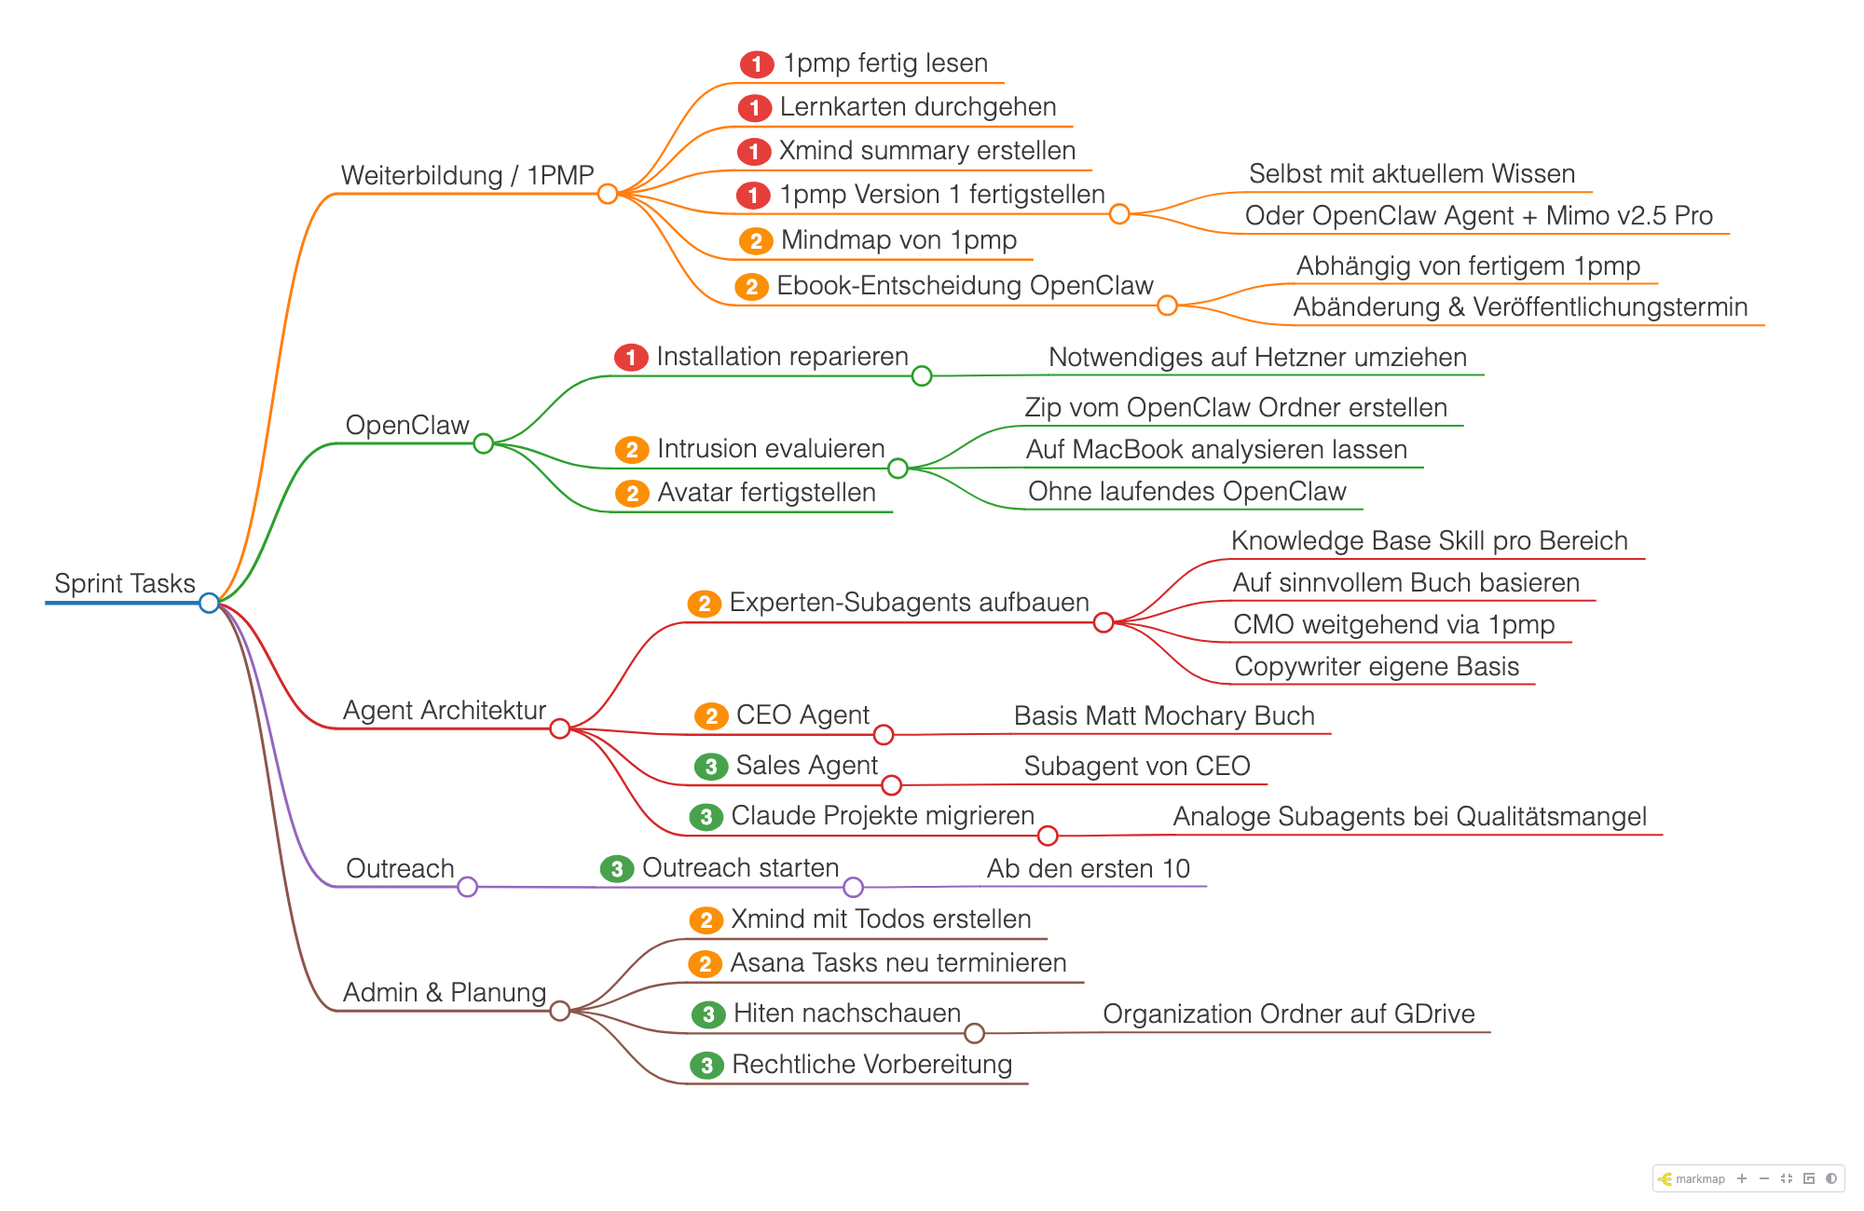
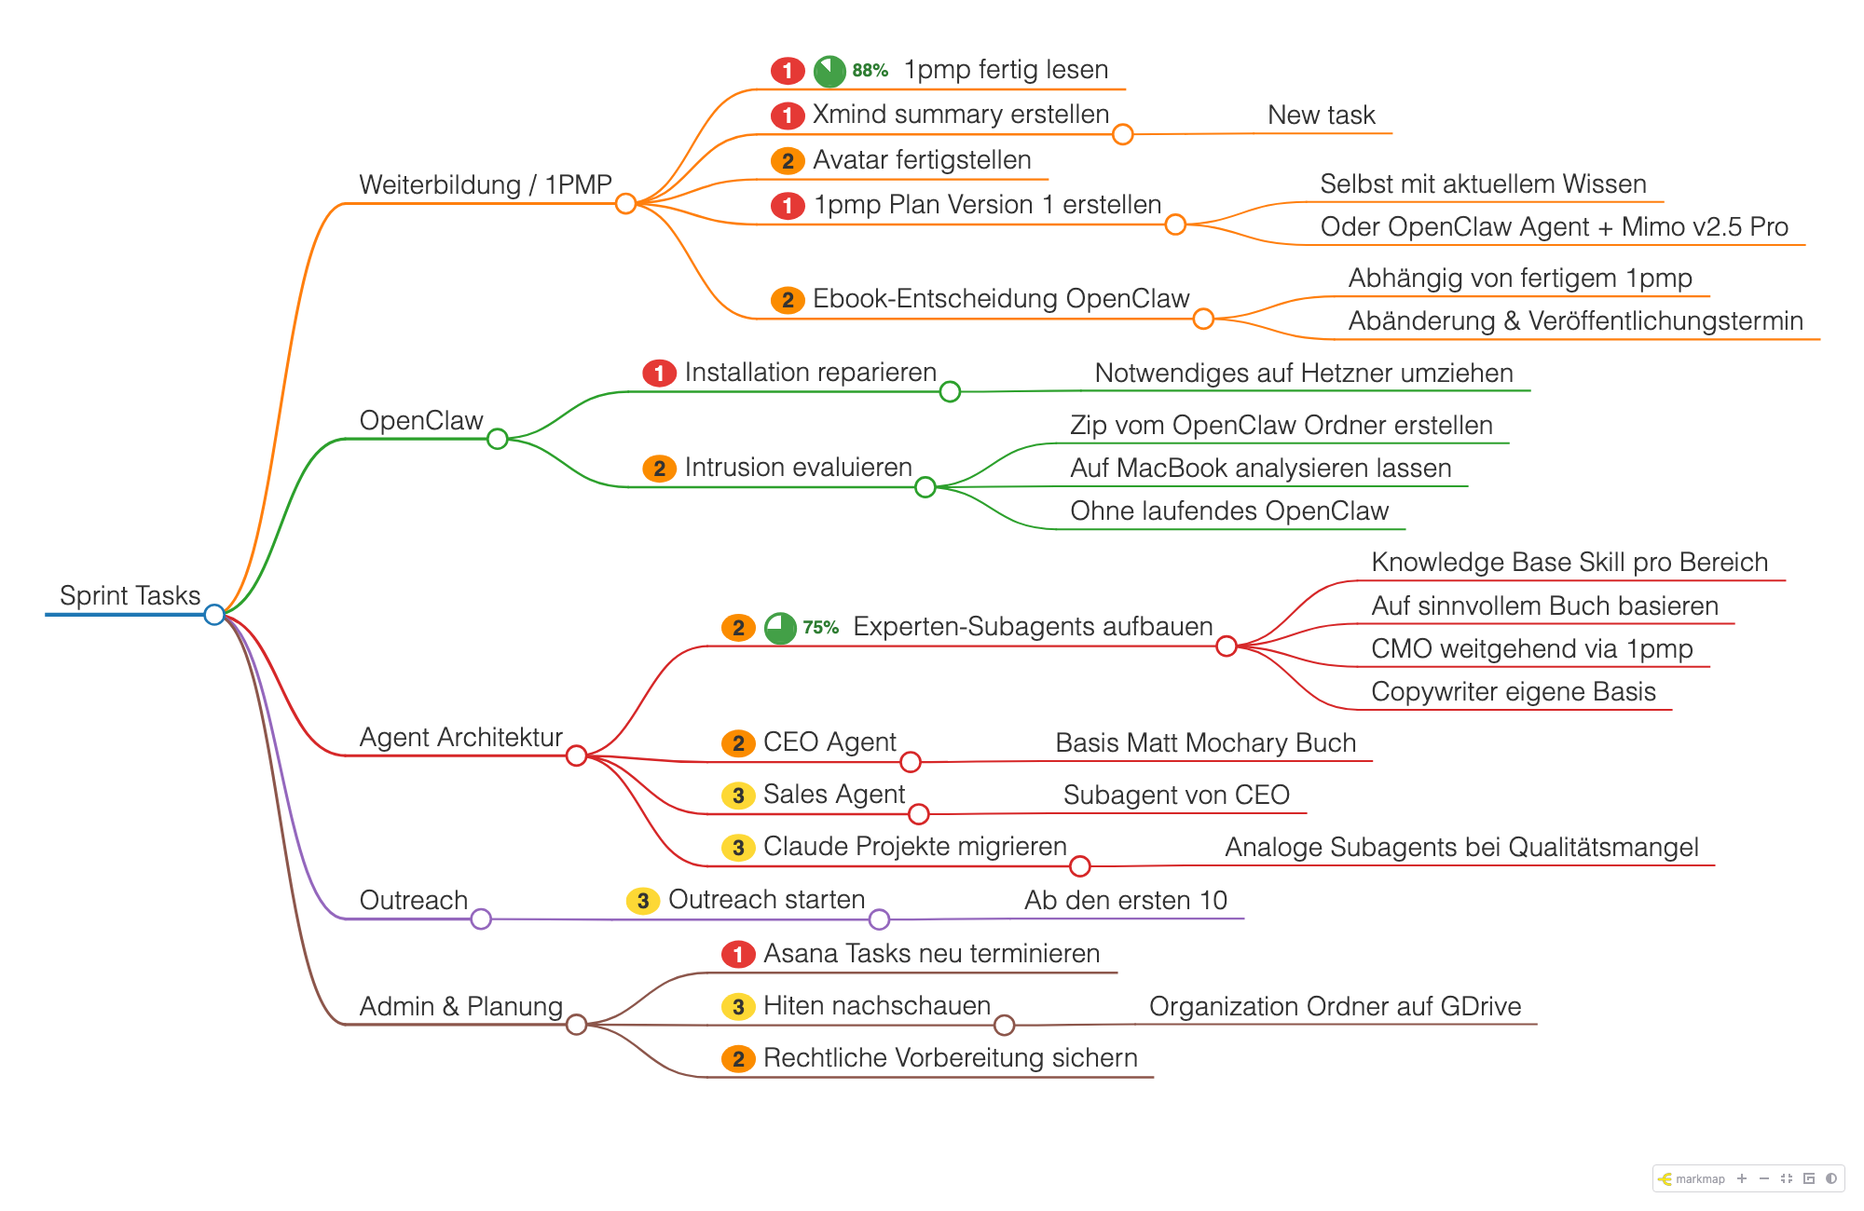
Fix markmap render pipeline and editor marker issues
- render-markmap.sh: fix doubled file:// path that broke the PNG when the
  editor server passes an absolute markdown path; wait for markmap's fit()
  via --virtual-time-budget so the screenshot is no longer blank/squeezed
- editor: cap and wrap the inline edit box so long text no longer overflows
  onto node connections
- markers: append a readable task-progress label (Start/…/Done) so progress
  is legible in markmap and matches the editor; round-trip preserved
- cleanup: dedupe .gitignore, untrack-fix the PNG, remove duplicate
  service-worker entry (cache v4), drop orphan sprint-tasks-mindmapai.md
- regenerate sprint-tasks.md/.html/.png through the fixed pipeline

Changed region(s): [[0.031, 0.0308, 0.961, 0.8923]]

diff --git a/sprint-tasks.html b/sprint-tasks.html
@@ -47,6 +47,6 @@ html {
               if (window.matchMedia("(prefers-color-scheme: dark)").matches) {
                 document.documentElement.classList.add("markmap-dark");
               }
-            })(() => window.markmap,null,{"content":"Sprint Tasks","children":[{"content":"Weiterbildung / 1PMP","children":[{"content":"<span style=\"background:#e53935;color:#ffffff;border-radius:50%;padding:1px 7px;font-weight:700;font-size:13px\">1</span> 1pmp fertig lesen","children":[],"payload":{"tag":"h3","lines":"10,11"}},{"content":"<span style=\"background:#e53935;color:#ffffff;border-radius:50%;padding:1px 7px;font-weight:700;font-size:13px\">1</span> Xmind summary erstellen","children":[],"payload":{"tag":"h3","lines":"11,12"}},{"content":"<span style=\"background:#fb8c00;color:#333333;border-radius:50%;padding:1px 7px;font-weight:700;font-size:13px\">2</span> Avatar fertigstellen","children":[],"payload":{"tag":"h3","lines":"12,13"}},{"content":"<span style=\"background:#e53935;color:#ffffff;border-radius:50%;padding:1px 7px;font-weight:700;font-size:13px\">1</span> 1pmp Version 1 fertigstellen","children":[{"content":"Selbst mit aktuellem Wissen","children":[],"payload":{"tag":"li","lines":"14,15"}},{"content":"Oder OpenClaw Agent + Mimo v2.5 Pro","children":[],"payload":{"tag":"li","lines":"15,16"}}],"payload":{"tag":"h3","lines":"13,14"}},{"content":"<span style=\"background:#fb8c00;color:#333333;border-radius:50%;padding:1px 7px;font-weight:700;font-size:13px\">2</span> Ebook-Entscheidung OpenClaw","children":[{"content":"Abh&#xe4;ngig von fertigem 1pmp","children":[],"payload":{"tag":"li","lines":"17,18"}},{"content":"Ab&#xe4;nderung &amp; Ver&#xf6;ffentlichungstermin","children":[],"payload":{"tag":"li","lines":"18,20"}}],"payload":{"tag":"h3","lines":"16,17"}}],"payload":{"tag":"h2","lines":"9,10"}},{"content":"OpenClaw","children":[{"content":"<span style=\"background:#e53935;color:#ffffff;border-radius:50%;padding:1px 7px;font-weight:700;font-size:13px\">1</span> Installation reparieren","children":[{"content":"Notwendiges auf Hetzner umziehen","children":[],"payload":{"tag":"li","lines":"22,23"}}],"payload":{"tag":"h3","lines":"21,22"}},{"content":"<span style=\"background:#fb8c00;color:#333333;border-radius:50%;padding:1px 7px;font-weight:700;font-size:13px\">2</span> Intrusion evaluieren","children":[{"content":"Zip vom OpenClaw Ordner erstellen","children":[],"payload":{"tag":"li","lines":"24,25"}},{"content":"Auf MacBook analysieren lassen","children":[],"payload":{"tag":"li","lines":"25,26"}},{"content":"Ohne laufendes OpenClaw","children":[],"payload":{"tag":"li","lines":"26,28"}}],"payload":{"tag":"h3","lines":"23,24"}}],"payload":{"tag":"h2","lines":"20,21"}},{"content":"Agent Architektur","children":[{"content":"<span style=\"background:#fb8c00;color:#333333;border-radius:50%;padding:1px 7px;font-weight:700;font-size:13px\">2</span> Experten-Subagents aufbauen","children":[{"content":"Knowledge Base Skill pro Bereich","children":[],"payload":{"tag":"li","lines":"30,31"}},{"content":"Auf sinnvollem Buch basieren","children":[],"payload":{"tag":"li","lines":"31,32"}},{"content":"CMO weitgehend via 1pmp","children":[],"payload":{"tag":"li","lines":"32,33"}},{"content":"Copywriter eigene Basis","children":[],"payload":{"tag":"li","lines":"33,34"}}],"payload":{"tag":"h3","lines":"29,30"}},{"content":"<span style=\"background:#fb8c00;color:#333333;border-radius:50%;padding:1px 7px;font-weight:700;font-size:13px\">2</span> CEO Agent","children":[{"content":"Basis Matt Mochary Buch","children":[],"payload":{"tag":"li","lines":"35,36"}}],"payload":{"tag":"h3","lines":"34,35"}},{"content":"<span style=\"background:#fdd835;color:#333333;border-radius:50%;padding:1px 7px;font-weight:700;font-size:13px\">3</span> Sales Agent","children":[{"content":"Subagent von CEO","children":[],"payload":{"tag":"li","lines":"37,38"}}],"payload":{"tag":"h3","lines":"36,37"}},{"content":"<span style=\"background:#fdd835;color:#333333;border-radius:50%;padding:1px 7px;font-weight:700;font-size:13px\">3</span> Claude Projekte migrieren","children":[{"content":"Analoge Subagents bei Qualit&#xe4;tsmangel","children":[],"payload":{"tag":"li","lines":"39,41"}}],"payload":{"tag":"h3","lines":"38,39"}}],"payload":{"tag":"h2","lines":"28,29"}},{"content":"Outreach","children":[{"content":"<span style=\"background:#fdd835;color:#333333;border-radius:50%;padding:1px 7px;font-weight:700;font-size:13px\">3</span> Outreach starten","children":[{"content":"Ab den ersten 10","children":[],"payload":{"tag":"li","lines":"43,45"}}],"payload":{"tag":"h3","lines":"42,43"}}],"payload":{"tag":"h2","lines":"41,42"}},{"content":"Admin &amp; Planung","children":[{"content":"<span style=\"background:#e53935;color:#ffffff;border-radius:50%;padding:1px 7px;font-weight:700;font-size:13px\">1</span> Asana Tasks neu terminieren","children":[],"payload":{"tag":"h3","lines":"46,47"}},{"content":"<span style=\"background:#fdd835;color:#333333;border-radius:50%;padding:1px 7px;font-weight:700;font-size:13px\">3</span> Hiten nachschauen","children":[{"content":"Organization Ordner auf GDrive","children":[],"payload":{"tag":"li","lines":"48,49"}}],"payload":{"tag":"h3","lines":"47,48"}},{"content":"<span style=\"background:#fb8c00;color:#333333;border-radius:50%;padding:1px 7px;font-weight:700;font-size:13px\">2</span> Rechtliche Vorbereitung sichern","children":[],"payload":{"tag":"h3","lines":"49,50"}}],"payload":{"tag":"h2","lines":"45,46"}}],"payload":{"tag":"h1","lines":"7,8"}},{"colorFreezeLevel":2,"initialExpandLevel":4,"maxWidth":340})</script>
+            })(() => window.markmap,null,{"content":"Sprint Tasks","children":[{"content":"Weiterbildung / 1PMP","children":[{"content":"<span data-m=\"priority\" data-v=\"1\" style=\"background:#e53935;color:#ffffff;border-radius:50%;padding:1px 7px;font-weight:700;font-size:13px\">1</span> <span data-m=\"task\" data-v=\"5\" style=\"display:inline-block;width:16px;height:16px;border:2px solid #43a047;border-radius:50%;vertical-align:middle;margin-right:4px;background:conic-gradient(#43a047 0deg 315deg, transparent 315deg);\"></span><span data-task-label=\"5\" style=\"font-size:11px;font-weight:600;color:#2e7d32;vertical-align:middle;margin-right:4px\">88%</span> 1pmp fertig lesen","children":[],"payload":{"tag":"h3","lines":"10,11"}},{"content":"<span data-m=\"priority\" data-v=\"1\" style=\"background:#e53935;color:#ffffff;border-radius:50%;padding:1px 7px;font-weight:700;font-size:13px\">1</span> Xmind summary erstellen","children":[{"content":"New task","children":[],"payload":{"tag":"li","lines":"12,13"}}],"payload":{"tag":"h3","lines":"11,12"}},{"content":"<span data-m=\"priority\" data-v=\"2\" style=\"background:#fb8c00;color:#333333;border-radius:50%;padding:1px 7px;font-weight:700;font-size:13px\">2</span> Avatar fertigstellen","children":[],"payload":{"tag":"h3","lines":"13,14"}},{"content":"<span data-m=\"priority\" data-v=\"1\" style=\"background:#e53935;color:#ffffff;border-radius:50%;padding:1px 7px;font-weight:700;font-size:13px\">1</span> 1pmp Plan Version 1 erstellen","children":[{"content":"Selbst mit aktuellem Wissen","children":[],"payload":{"tag":"li","lines":"15,16"}},{"content":"Oder OpenClaw Agent + Mimo v2.5 Pro","children":[],"payload":{"tag":"li","lines":"16,17"}}],"payload":{"tag":"h3","lines":"14,15"}},{"content":"<span data-m=\"priority\" data-v=\"2\" style=\"background:#fb8c00;color:#333333;border-radius:50%;padding:1px 7px;font-weight:700;font-size:13px\">2</span> Ebook-Entscheidung OpenClaw","children":[{"content":"Abh&#xe4;ngig von fertigem 1pmp","children":[],"payload":{"tag":"li","lines":"18,19"}},{"content":"Ab&#xe4;nderung &amp; Ver&#xf6;ffentlichungstermin","children":[],"payload":{"tag":"li","lines":"19,21"}}],"payload":{"tag":"h3","lines":"17,18"}}],"payload":{"tag":"h2","lines":"9,10"}},{"content":"OpenClaw","children":[{"content":"<span data-m=\"priority\" data-v=\"1\" style=\"background:#e53935;color:#ffffff;border-radius:50%;padding:1px 7px;font-weight:700;font-size:13px\">1</span> Installation reparieren","children":[{"content":"Notwendiges auf Hetzner umziehen","children":[],"payload":{"tag":"li","lines":"23,24"}}],"payload":{"tag":"h3","lines":"22,23"}},{"content":"<span data-m=\"priority\" data-v=\"2\" style=\"background:#fb8c00;color:#333333;border-radius:50%;padding:1px 7px;font-weight:700;font-size:13px\">2</span> Intrusion evaluieren","children":[{"content":"Zip vom OpenClaw Ordner erstellen","children":[],"payload":{"tag":"li","lines":"25,26"}},{"content":"Auf MacBook analysieren lassen","children":[],"payload":{"tag":"li","lines":"26,27"}},{"content":"Ohne laufendes OpenClaw","children":[],"payload":{"tag":"li","lines":"27,29"}}],"payload":{"tag":"h3","lines":"24,25"}}],"payload":{"tag":"h2","lines":"21,22"}},{"content":"Agent Architektur","children":[{"content":"<span data-m=\"priority\" data-v=\"2\" style=\"background:#fb8c00;color:#333333;border-radius:50%;padding:1px 7px;font-weight:700;font-size:13px\">2</span> <span data-m=\"task\" data-v=\"4\" style=\"display:inline-block;width:16px;height:16px;border:2px solid #43a047;border-radius:50%;vertical-align:middle;margin-right:4px;background:conic-gradient(#43a047 0deg 270deg, transparent 270deg);\"></span><span data-task-label=\"4\" style=\"font-size:11px;font-weight:600;color:#2e7d32;vertical-align:middle;margin-right:4px\">75%</span> Experten-Subagents aufbauen","children":[{"content":"Knowledge Base Skill pro Bereich","children":[],"payload":{"tag":"li","lines":"31,32"}},{"content":"Auf sinnvollem Buch basieren","children":[],"payload":{"tag":"li","lines":"32,33"}},{"content":"CMO weitgehend via 1pmp","children":[],"payload":{"tag":"li","lines":"33,34"}},{"content":"Copywriter eigene Basis","children":[],"payload":{"tag":"li","lines":"34,35"}}],"payload":{"tag":"h3","lines":"30,31"}},{"content":"<span data-m=\"priority\" data-v=\"2\" style=\"background:#fb8c00;color:#333333;border-radius:50%;padding:1px 7px;font-weight:700;font-size:13px\">2</span> CEO Agent","children":[{"content":"Basis Matt Mochary Buch","children":[],"payload":{"tag":"li","lines":"36,37"}}],"payload":{"tag":"h3","lines":"35,36"}},{"content":"<span data-m=\"priority\" data-v=\"3\" style=\"background:#fdd835;color:#333333;border-radius:50%;padding:1px 7px;font-weight:700;font-size:13px\">3</span> Sales Agent","children":[{"content":"Subagent von CEO","children":[],"payload":{"tag":"li","lines":"38,39"}}],"payload":{"tag":"h3","lines":"37,38"}},{"content":"<span data-m=\"priority\" data-v=\"3\" style=\"background:#fdd835;color:#333333;border-radius:50%;padding:1px 7px;font-weight:700;font-size:13px\">3</span> Claude Projekte migrieren","children":[{"content":"Analoge Subagents bei Qualit&#xe4;tsmangel","children":[],"payload":{"tag":"li","lines":"40,42"}}],"payload":{"tag":"h3","lines":"39,40"}}],"payload":{"tag":"h2","lines":"29,30"}},{"content":"Outreach","children":[{"content":"<span data-m=\"priority\" data-v=\"3\" style=\"background:#fdd835;color:#333333;border-radius:50%;padding:1px 7px;font-weight:700;font-size:13px\">3</span> Outreach starten","children":[{"content":"Ab den ersten 10","children":[],"payload":{"tag":"li","lines":"44,46"}}],"payload":{"tag":"h3","lines":"43,44"}}],"payload":{"tag":"h2","lines":"42,43"}},{"content":"Admin &amp; Planung","children":[{"content":"<span data-m=\"priority\" data-v=\"1\" style=\"background:#e53935;color:#ffffff;border-radius:50%;padding:1px 7px;font-weight:700;font-size:13px\">1</span> Asana Tasks neu terminieren","children":[],"payload":{"tag":"h3","lines":"47,48"}},{"content":"<span data-m=\"priority\" data-v=\"3\" style=\"background:#fdd835;color:#333333;border-radius:50%;padding:1px 7px;font-weight:700;font-size:13px\">3</span> Hiten nachschauen","children":[{"content":"Organization Ordner auf GDrive","children":[],"payload":{"tag":"li","lines":"49,50"}}],"payload":{"tag":"h3","lines":"48,49"}},{"content":"<span data-m=\"priority\" data-v=\"2\" style=\"background:#fb8c00;color:#333333;border-radius:50%;padding:1px 7px;font-weight:700;font-size:13px\">2</span> Rechtliche Vorbereitung sichern","children":[],"payload":{"tag":"h3","lines":"50,51"}}],"payload":{"tag":"h2","lines":"46,47"}}],"payload":{"tag":"h1","lines":"7,8"}},{"colorFreezeLevel":2,"initialExpandLevel":4,"maxWidth":340})</script>
 </body>
 </html>

diff --git a/editor/style.css b/editor/style.css
@@ -178,6 +178,16 @@ body {
   background: #fff;
 }
 
+/* Mind Elixir's inline edit box (contenteditable) only sets a min-width, so long
+   text grows on a single line and overlaps sibling nodes and the link curves.
+   Cap its width and let it wrap instead. */
+#map #input-box {
+  max-width: 340px;
+  white-space: pre-wrap;
+  overflow-wrap: anywhere;
+  word-break: break-word;
+}
+
 .pri-badge,
 .marker-pri,
 .marker-icon {
@@ -216,6 +226,14 @@ body {
   vertical-align: middle;
   flex-shrink: 0;
   box-sizing: border-box;
+}
+
+.node-markers .marker-task-label {
+  font-size: 11px;
+  font-weight: 600;
+  color: #2e7d32;
+  margin-right: 2px;
+  vertical-align: middle;
 }
 
 .node-markers .marker-task.task-6 {

diff --git a/editor/service-worker.js b/editor/service-worker.js
@@ -1,4 +1,4 @@
-const CACHE = 'sprint-mindmap-editor-v3';
+const CACHE = 'sprint-mindmap-editor-v4';
 
 const SHELL = [
   '/',
@@ -8,7 +8,6 @@ const SHELL = [
   '/markmap-convert.mjs',
   '/markers.mjs',
   '/marker-picker.mjs',
-  '/priority-hotkeys.mjs',
   '/priority-hotkeys.mjs',
   '/manifest.webmanifest',
   '/vendor/MindElixir.js',

diff --git a/sprint-tasks.md b/sprint-tasks.md
@@ -8,43 +8,44 @@ markmap:
 # Sprint Tasks
 
 ## Weiterbildung / 1PMP
-### <span style="background:#e53935;color:#ffffff;border-radius:50%;padding:1px 7px;font-weight:700;font-size:13px">1</span> 1pmp fertig lesen
-### <span style="background:#e53935;color:#ffffff;border-radius:50%;padding:1px 7px;font-weight:700;font-size:13px">1</span> Xmind summary erstellen
-### <span style="background:#fb8c00;color:#333333;border-radius:50%;padding:1px 7px;font-weight:700;font-size:13px">2</span> Avatar fertigstellen
-### <span style="background:#e53935;color:#ffffff;border-radius:50%;padding:1px 7px;font-weight:700;font-size:13px">1</span> 1pmp Version 1 fertigstellen
+### <span data-m="priority" data-v="1" style="background:#e53935;color:#ffffff;border-radius:50%;padding:1px 7px;font-weight:700;font-size:13px">1</span> <span data-m="task" data-v="5" style="display:inline-block;width:16px;height:16px;border:2px solid #43a047;border-radius:50%;vertical-align:middle;margin-right:4px;background:conic-gradient(#43a047 0deg 315deg, transparent 315deg);"></span><span data-task-label="5" style="font-size:11px;font-weight:600;color:#2e7d32;vertical-align:middle;margin-right:4px">88%</span> 1pmp fertig lesen
+### <span data-m="priority" data-v="1" style="background:#e53935;color:#ffffff;border-radius:50%;padding:1px 7px;font-weight:700;font-size:13px">1</span> Xmind summary erstellen
+- New task
+### <span data-m="priority" data-v="2" style="background:#fb8c00;color:#333333;border-radius:50%;padding:1px 7px;font-weight:700;font-size:13px">2</span> Avatar fertigstellen
+### <span data-m="priority" data-v="1" style="background:#e53935;color:#ffffff;border-radius:50%;padding:1px 7px;font-weight:700;font-size:13px">1</span> 1pmp Plan Version 1 erstellen
 - Selbst mit aktuellem Wissen
 - Oder OpenClaw Agent + Mimo v2.5 Pro
-### <span style="background:#fb8c00;color:#333333;border-radius:50%;padding:1px 7px;font-weight:700;font-size:13px">2</span> Ebook-Entscheidung OpenClaw
+### <span data-m="priority" data-v="2" style="background:#fb8c00;color:#333333;border-radius:50%;padding:1px 7px;font-weight:700;font-size:13px">2</span> Ebook-Entscheidung OpenClaw
 - Abhängig von fertigem 1pmp
 - Abänderung & Veröffentlichungstermin
 
 ## OpenClaw
-### <span style="background:#e53935;color:#ffffff;border-radius:50%;padding:1px 7px;font-weight:700;font-size:13px">1</span> Installation reparieren
+### <span data-m="priority" data-v="1" style="background:#e53935;color:#ffffff;border-radius:50%;padding:1px 7px;font-weight:700;font-size:13px">1</span> Installation reparieren
 - Notwendiges auf Hetzner umziehen
-### <span style="background:#fb8c00;color:#333333;border-radius:50%;padding:1px 7px;font-weight:700;font-size:13px">2</span> Intrusion evaluieren
+### <span data-m="priority" data-v="2" style="background:#fb8c00;color:#333333;border-radius:50%;padding:1px 7px;font-weight:700;font-size:13px">2</span> Intrusion evaluieren
 - Zip vom OpenClaw Ordner erstellen
 - Auf MacBook analysieren lassen
 - Ohne laufendes OpenClaw
 
 ## Agent Architektur
-### <span style="background:#fb8c00;color:#333333;border-radius:50%;padding:1px 7px;font-weight:700;font-size:13px">2</span> Experten-Subagents aufbauen
+### <span data-m="priority" data-v="2" style="background:#fb8c00;color:#333333;border-radius:50%;padding:1px 7px;font-weight:700;font-size:13px">2</span> <span data-m="task" data-v="4" style="display:inline-block;width:16px;height:16px;border:2px solid #43a047;border-radius:50%;vertical-align:middle;margin-right:4px;background:conic-gradient(#43a047 0deg 270deg, transparent 270deg);"></span><span data-task-label="4" style="font-size:11px;font-weight:600;color:#2e7d32;vertical-align:middle;margin-right:4px">75%</span> Experten-Subagents aufbauen
 - Knowledge Base Skill pro Bereich
 - Auf sinnvollem Buch basieren
 - CMO weitgehend via 1pmp
 - Copywriter eigene Basis
-### <span style="background:#fb8c00;color:#333333;border-radius:50%;padding:1px 7px;font-weight:700;font-size:13px">2</span> CEO Agent
+### <span data-m="priority" data-v="2" style="background:#fb8c00;color:#333333;border-radius:50%;padding:1px 7px;font-weight:700;font-size:13px">2</span> CEO Agent
 - Basis Matt Mochary Buch
-### <span style="background:#fdd835;color:#333333;border-radius:50%;padding:1px 7px;font-weight:700;font-size:13px">3</span> Sales Agent
+### <span data-m="priority" data-v="3" style="background:#fdd835;color:#333333;border-radius:50%;padding:1px 7px;font-weight:700;font-size:13px">3</span> Sales Agent
 - Subagent von CEO
-### <span style="background:#fdd835;color:#333333;border-radius:50%;padding:1px 7px;font-weight:700;font-size:13px">3</span> Claude Projekte migrieren
+### <span data-m="priority" data-v="3" style="background:#fdd835;color:#333333;border-radius:50%;padding:1px 7px;font-weight:700;font-size:13px">3</span> Claude Projekte migrieren
 - Analoge Subagents bei Qualitätsmangel
 
 ## Outreach
-### <span style="background:#fdd835;color:#333333;border-radius:50%;padding:1px 7px;font-weight:700;font-size:13px">3</span> Outreach starten
+### <span data-m="priority" data-v="3" style="background:#fdd835;color:#333333;border-radius:50%;padding:1px 7px;font-weight:700;font-size:13px">3</span> Outreach starten
 - Ab den ersten 10
 
 ## Admin & Planung
-### <span style="background:#e53935;color:#ffffff;border-radius:50%;padding:1px 7px;font-weight:700;font-size:13px">1</span> Asana Tasks neu terminieren
-### <span style="background:#fdd835;color:#333333;border-radius:50%;padding:1px 7px;font-weight:700;font-size:13px">3</span> Hiten nachschauen
+### <span data-m="priority" data-v="1" style="background:#e53935;color:#ffffff;border-radius:50%;padding:1px 7px;font-weight:700;font-size:13px">1</span> Asana Tasks neu terminieren
+### <span data-m="priority" data-v="3" style="background:#fdd835;color:#333333;border-radius:50%;padding:1px 7px;font-weight:700;font-size:13px">3</span> Hiten nachschauen
 - Organization Ordner auf GDrive
-### <span style="background:#fb8c00;color:#333333;border-radius:50%;padding:1px 7px;font-weight:700;font-size:13px">2</span> Rechtliche Vorbereitung sichern
+### <span data-m="priority" data-v="2" style="background:#fb8c00;color:#333333;border-radius:50%;padding:1px 7px;font-weight:700;font-size:13px">2</span> Rechtliche Vorbereitung sichern
